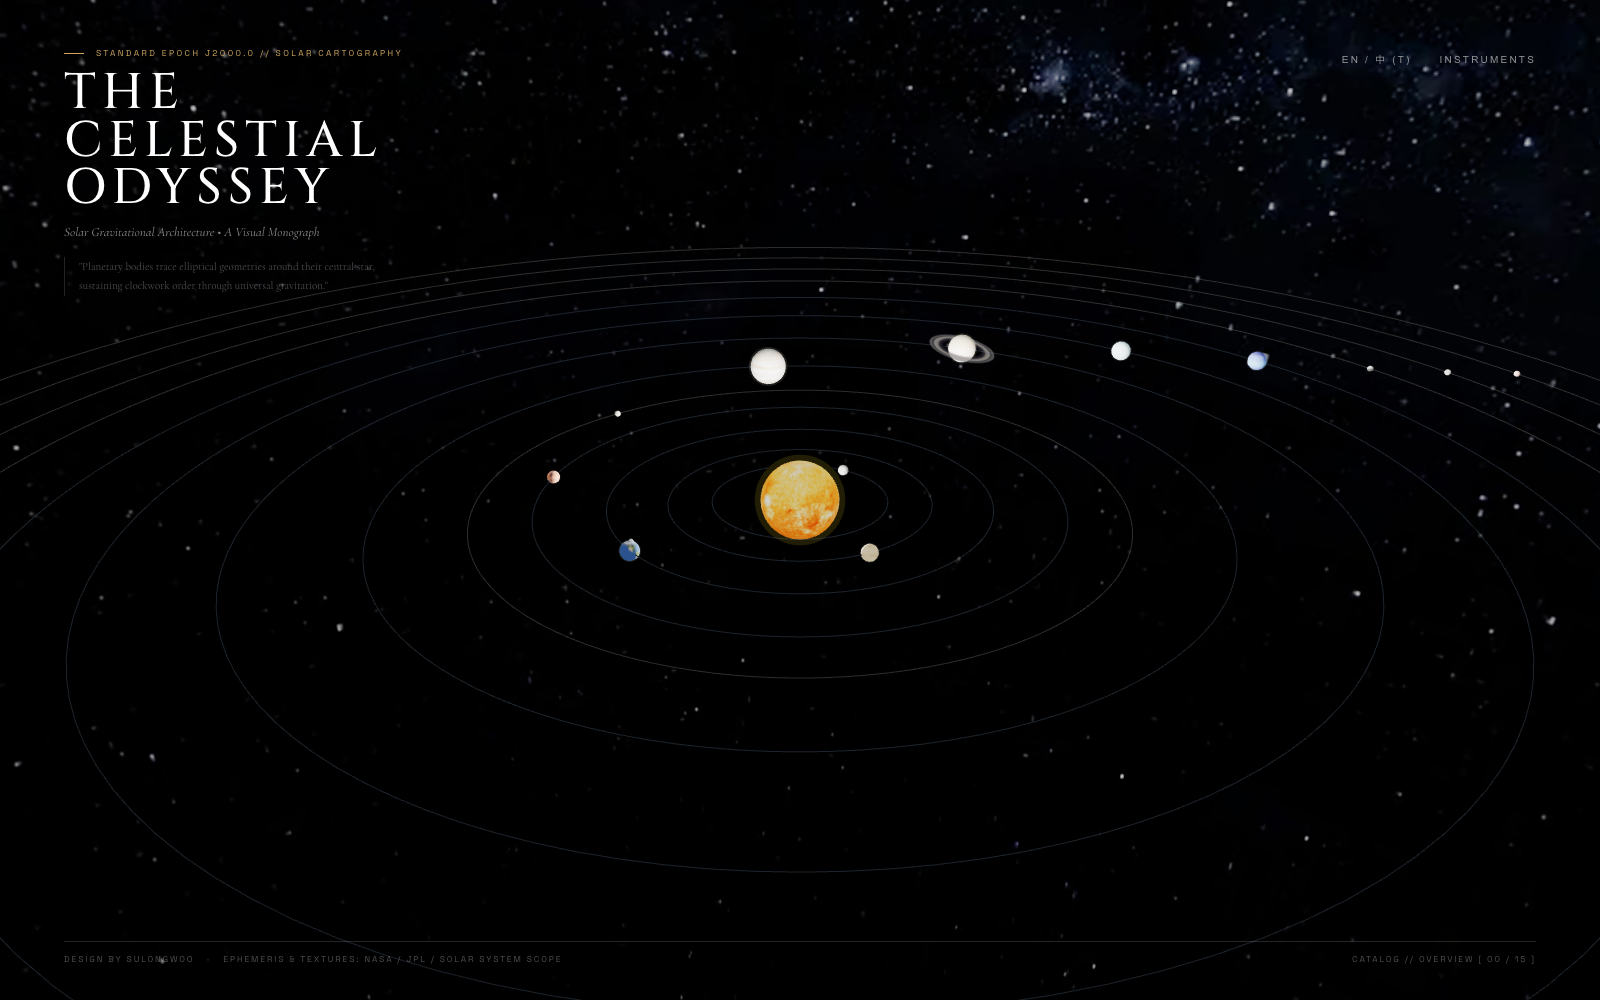
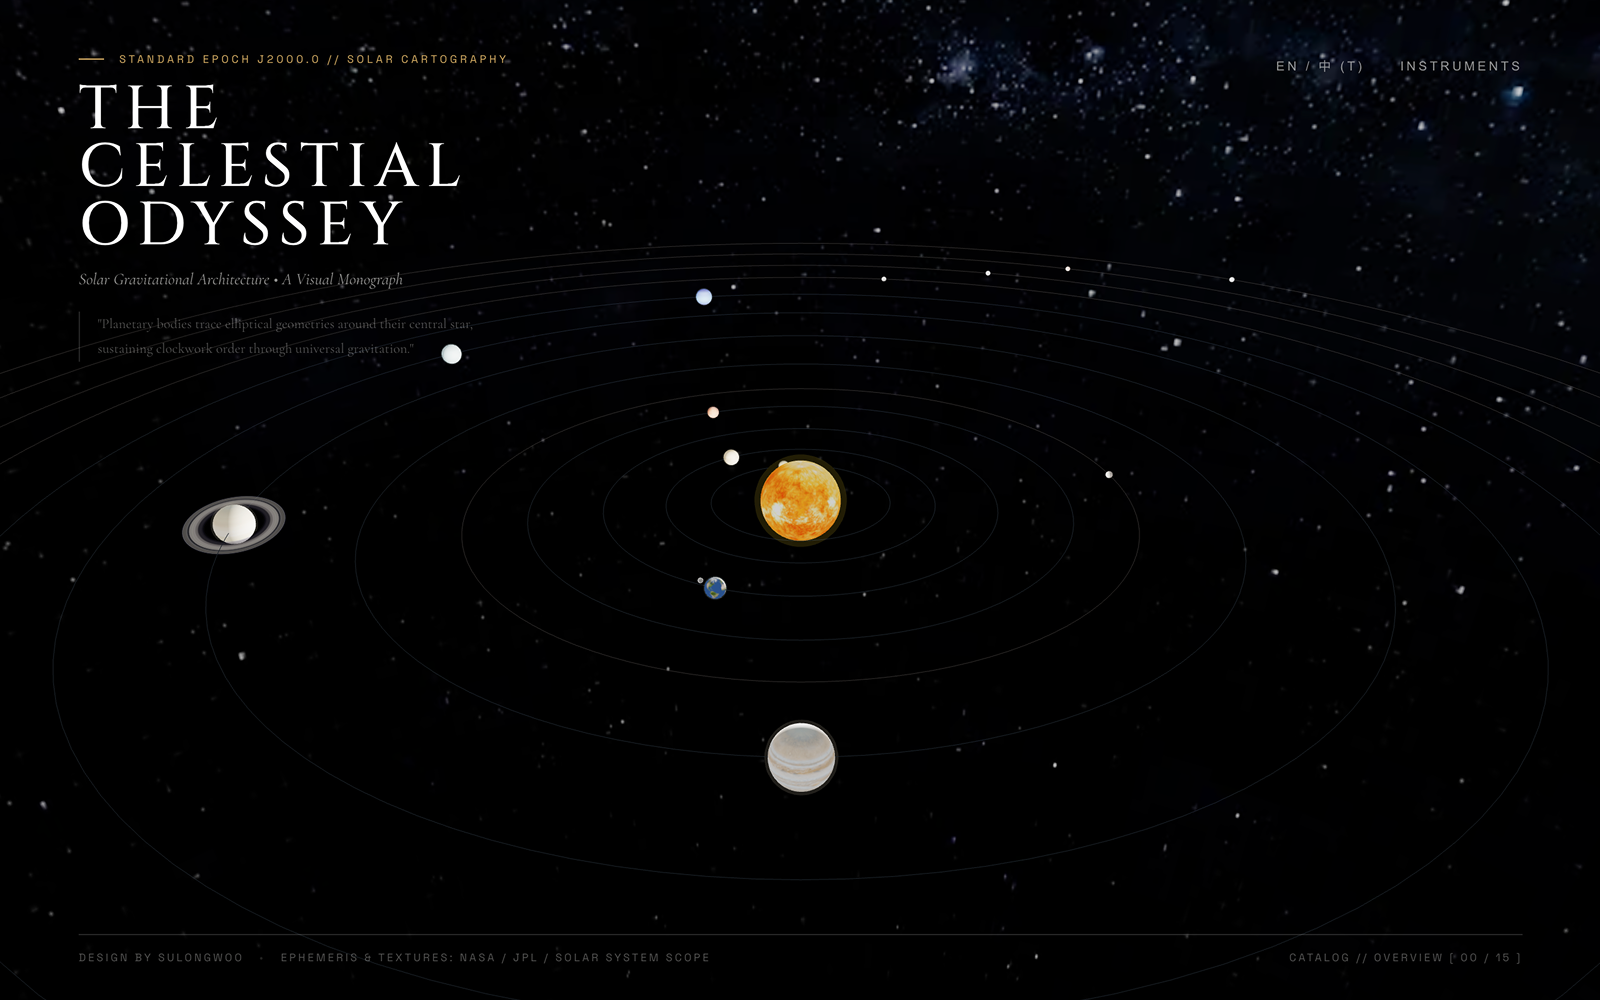
docs: 更新全景预览图并补充特写专栏截图

diff --git a/README.md b/README.md
@@ -2,7 +2,7 @@
 
 一颗可以握在手里的太阳系，排版成一本天文杂志。打开网页即可拖拽、点击、缩放，在星穹与专栏之间自由穿行。
 
-![预览](.github/preview.png)
+![全景总览](.github/preview.png)
 
 在线体验：<https://sulongwooo.github.io/the_celestial_odyssey/>
 
@@ -18,6 +18,12 @@
 - **点击天体**：镜头自动停靠到画面左侧，右侧滑出该天体的特写专栏（半长轴、表面温度、公转/自转周期 + 中英双语解说）
 - **观测调校仪**：开关注释星空、轨道线与公转/自转，滑块控制时间流速（最高 3.0x）
 - **双语切换**：整套版式、页脚署名、天体文案均为中英两套
+
+### 特写专栏
+
+点击天体后，镜头按视锥计算停靠到左侧，右侧滑出该天体的杂志式专栏；其余天体与轨道线同步淡出，把版面留给数据与文字。
+
+![特写专栏：谷神星](.github/preview-focus.png)
 
 | 操作 | 功能 |
 | --- | --- |
@@ -49,7 +55,7 @@ the_celestial_odyssey/
 ├── assets/
 │   ├── lib/                # three.js r128 + OrbitControls（本地化，无需 CDN）
 │   └── textures/           # 20 张 2K 天体纹理与星空背景
-├── .github/preview.png     # README 预览图
+├── .github/                # 预览图：全景总览 + 特写专栏
 ├── LICENSE
 └── 无用/                   # 历史草稿，已加入 .gitignore，不会进入仓库
 ```
